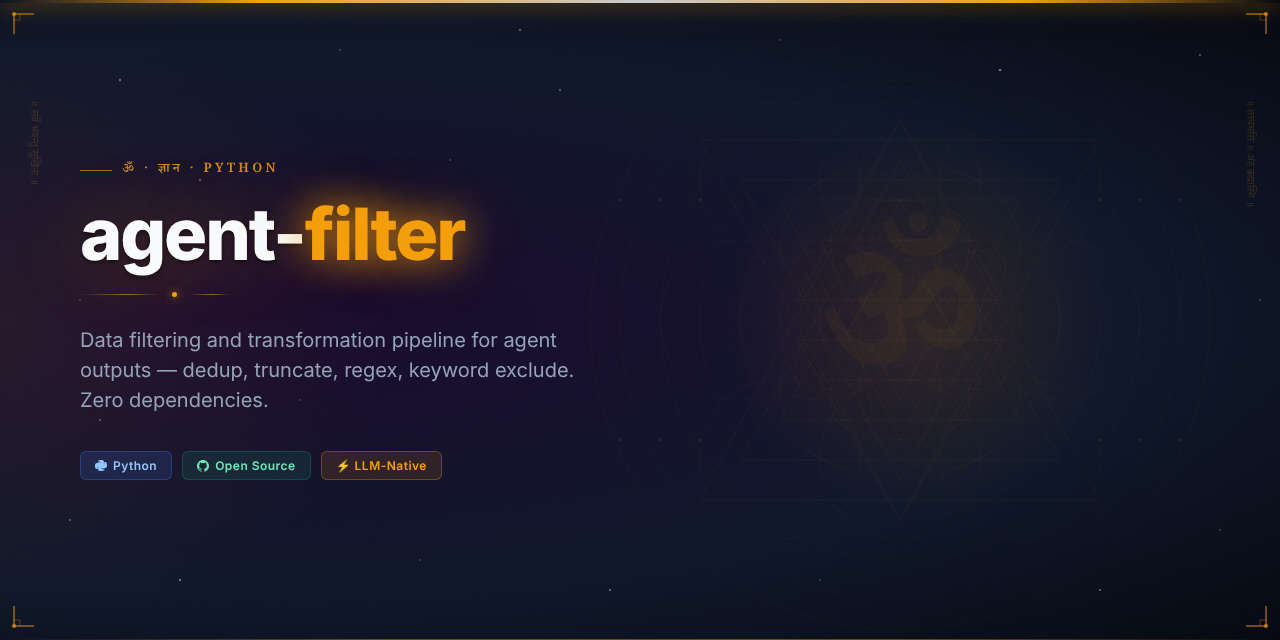
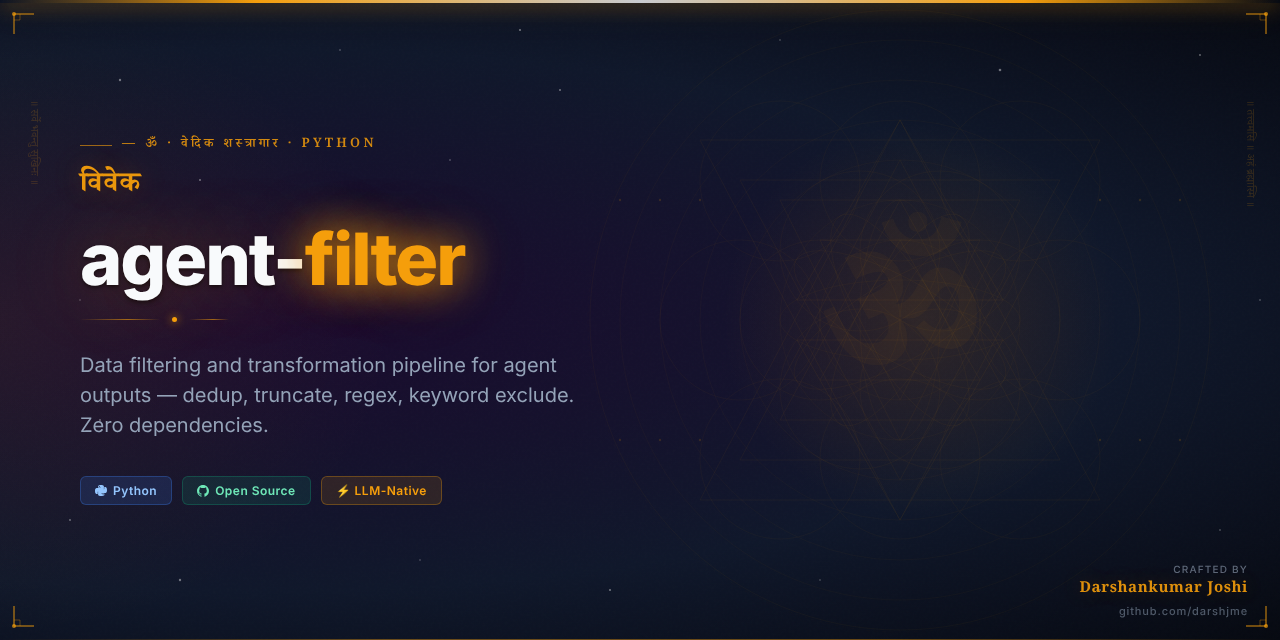
feat: add Vedic Arsenal hero image and updated README
Part of darshjme/arsenal — 100 production-grade Python libraries for LLM agents.
Vedic branding: ancient philosophy meets modern AI engineering.

diff --git a/README.md b/README.md
@@ -1,10 +1,12 @@
 <div align="center">
 
-<img src="assets/agent-filter-hero.png" alt="agent-filter — Vedic Arsenal" width="100%" />
+<img src="assets/agent-filter-hero.png" alt="agent-filter — Vedic Arsenal by Darshankumar Joshi" width="100%" />
 
 # ⚡ agent-filter
 
-### *विवेक* — Viveka — discriminative wisdom
+<h3><em>विवेक</em></h3>
+
+> *Viveka — discriminative wisdom*
 
 **Data filtering and transformation pipeline for agent outputs — dedup, truncate, regex, keyword exclude. Zero dependencies.**
 
@@ -39,6 +41,19 @@ Or clone directly:
 git clone https://github.com/darshjme/agent-filter.git
 cd agent-filter
 pip install -e .
+```
+
+## How It Works
+
+```mermaid
+flowchart LR
+    A[Input] --> B[agent-filter]
+    B --> C{Process}
+    C -- Success --> D[Output]
+    C -- Error --> E[Handle / Retry]
+    E --> B
+    style B fill:#6b21a8,color:#fff
+    note["Filter — Zero Dependencies"]
 ```
 
 ## Quick Start
@@ -90,7 +105,7 @@ MIT — use freely, build freely.
 
 <div align="center">
 
-**Built with ⚡ by [Darshankumar Joshi](https://github.com/darshjme)**
+**Built with ⚡ by [Darshankumar Joshi](https://github.com/darshjme)** · [@thedarshanjoshi](https://twitter.com/thedarshanjoshi)
 
 *"कर्मण्येवाधिकारस्ते मा फलेषु कदाचन"*
 *Your right is to action alone, never to the fruits thereof.*
